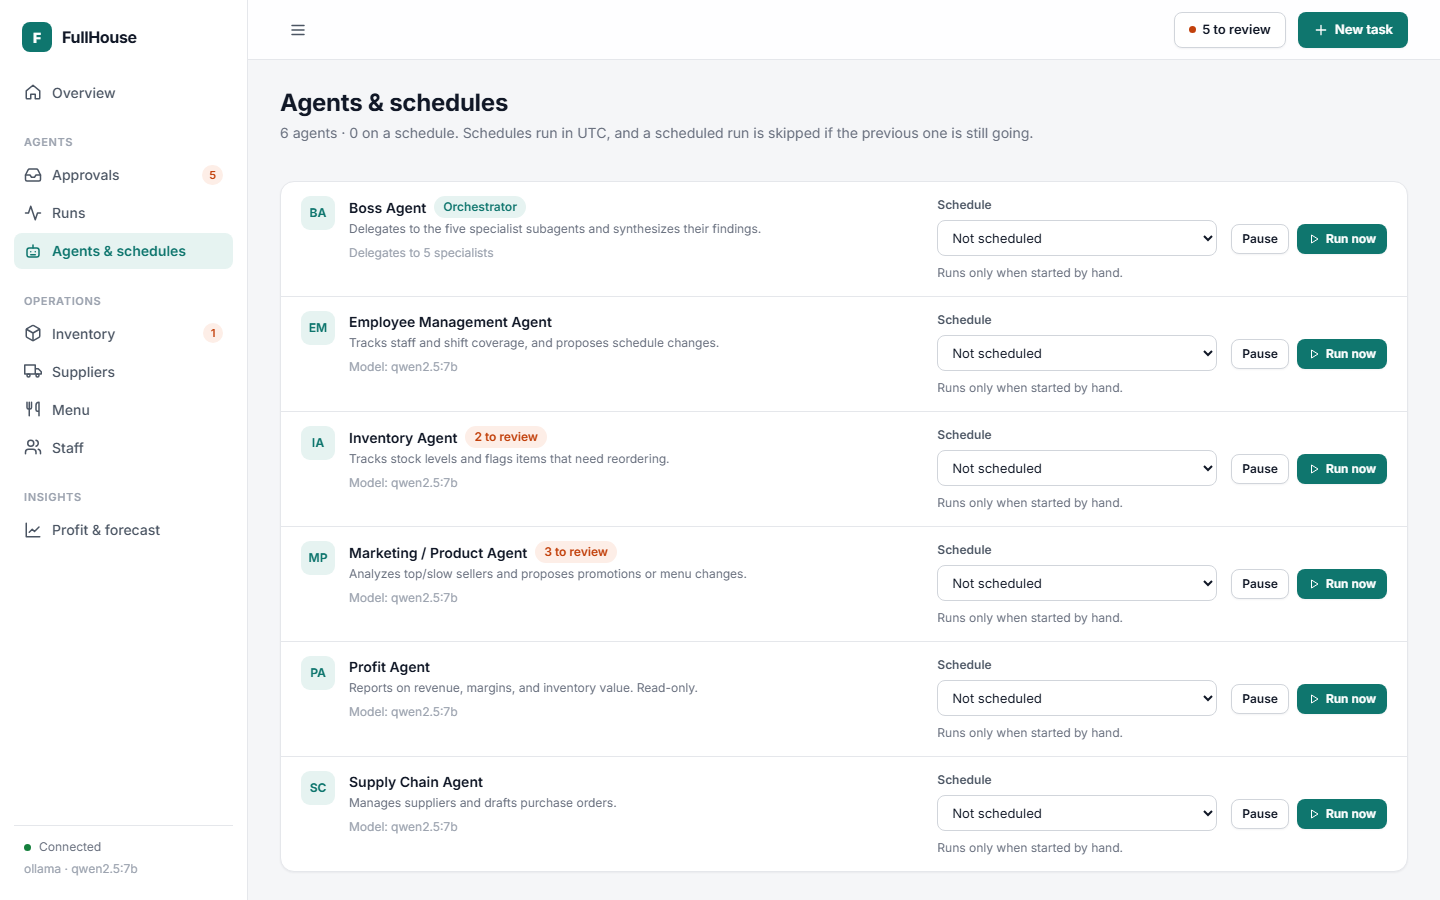
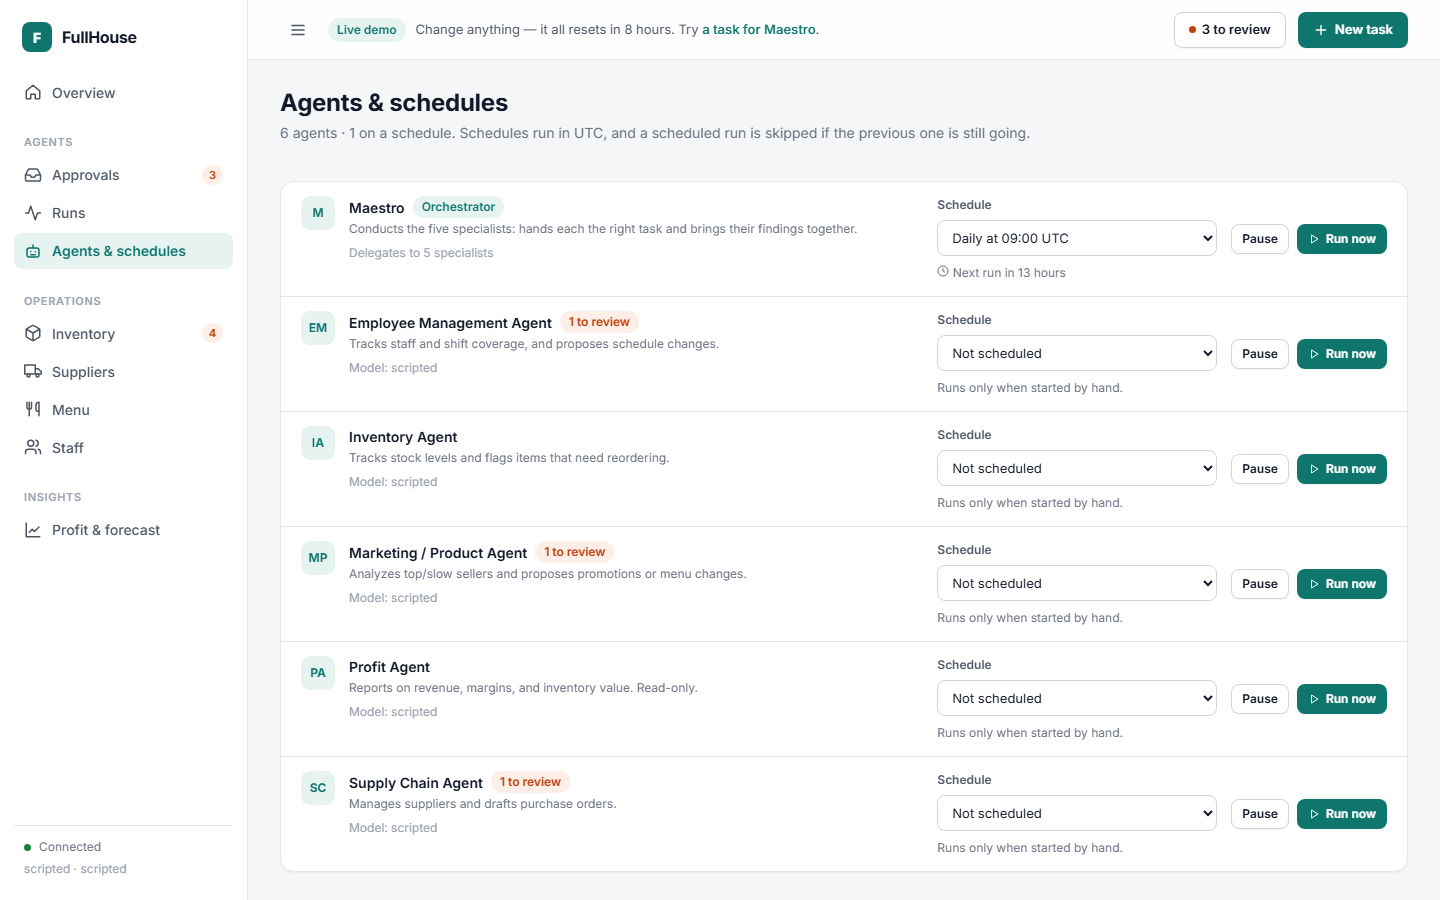
Refresh the README around the demo: GIF, screenshots, one-command setup
The GIF and screenshots are recorded from the demo by
frontend/scripts/capture-media.mjs, so they can be regenerated. DEPLOY.md
covers hosting the public demo on Render for free.

diff --git a/README.md b/README.md
@@ -2,17 +2,35 @@
 
 **An operations platform for a restaurant, run by a team of AI agents that propose — and a manager who decides.**
 
-Maestro, the lead agent, delegates to five specialists (inventory, suppliers, staff, menu, profit). Each can read the restaurant's
-real data and propose changes: reorder stock, schedule a shift, run a promotion. Nothing takes effect until a person
-approves it, every change is recorded with who made it and why, and anything can be reverted.
-
 [![CI](https://github.com/eddierzhang/FullHouse-Updated/actions/workflows/ci.yml/badge.svg)](https://github.com/eddierzhang/FullHouse-Updated/actions/workflows/ci.yml)
+![Python 3.11](https://img.shields.io/badge/python-3.11-3776AB)
+![React 19](https://img.shields.io/badge/react-19-149ECA)
+[![License: MIT](https://img.shields.io/badge/license-MIT-0f766e)](LICENSE)
 
-![Overview](docs/screenshots/overview.png)
+Maestro, the lead agent, hands work to five specialists — inventory, suppliers, staff, menu and profit — and they run
+in parallel. Each reads the restaurant's real data and proposes changes: reorder stock, fill a shift, run a promotion.
+Nothing takes effect until a person approves it, every change is recorded with who made it and why, and anything can
+be undone.
 
-| Watching an agent delegate, live | Menu costed from recipes |
-|---|---|
-| ![Runs](docs/screenshots/runs.png) | ![Menu](docs/screenshots/menu.png) |
+![Asking Maestro a question, watching it delegate live, and approving what it found](docs/demo.gif)
+
+## Try it
+
+No API key, GPU or model download needed — the demo runs its agents on a deterministic scripted provider, loads a
+small Italian bistro with six weeks of trading, and resets itself daily.
+
+```bash
+docker compose -f docker-compose.demo.yml up --build     # then open http://localhost:8080
+```
+
+Without Docker: `python dev.py setup` once, then `python dev.py demo`.
+To host it publicly for free, see [Deploying the public demo](DEPLOY.md#public-demo-free).
+
+| Overview | Maestro's run, live | Menu costed from recipes |
+|---|---|---|
+| ![Overview](docs/screenshots/overview.png) | ![Runs](docs/screenshots/runs.png) | ![Menu](docs/screenshots/menu.png) |
+| **Approvals** | **Profit and forecast** | **Inventory and days of cover** |
+| ![Approvals](docs/screenshots/approvals.png) | ![Profit](docs/screenshots/profit.png) | ![Inventory](docs/screenshots/inventory.png) |
 
 ---
 
@@ -107,7 +125,10 @@ history, and reports its confidence. "Days of cover" is blank, not zero, where n
 
 **Timezones were a real bug.** The profit chart's daily series once summed to less than the headline revenue: days were
 bucketed by local date while timestamps were stored in UTC. Everything is UTC now, and Postgres sessions are pinned to
-`GMT` — which, unlike `UTC`, every Postgres build has without a timezone database.
+`GMT` — which, unlike `UTC`, every Postgres build has without a timezone database. A second one surfaced while recording
+the demo: SQLite returns timestamps without an offset, so the API sent them without one and a browser west of UTC showed
+a run from a minute ago as "in 7 hours". A column type now attaches UTC on the way out of either database.
+([types.py](backend/app/db/types.py))
 
 ## Agent evaluation
 
@@ -136,52 +157,42 @@ Full report: [evals/results/latest.md](backend/evals/results/latest.md).
 **Frontend** — React 19, TypeScript, Vite, hand-built SVG charts, no UI framework
 **Data** — SQLite locally, Postgres supported and tested
 **Models** — Anthropic Claude, or local models through Ollama
-**Quality** — pytest (200 tests on SQLite and Postgres), Playwright end-to-end tests, agent evals, GitHub Actions
-**Delivery** — Docker Compose with nginx
+**Quality** — pytest (210 tests on SQLite and Postgres), Playwright end-to-end tests, agent evals, GitHub Actions
+**Delivery** — a single-container demo image, and Docker Compose with nginx and Ollama
 
 ## Running it
 
-### With Docker
+Every task is one command through [`dev.py`](dev.py), which works the same on Windows, macOS and Linux:
 
-```bash
-cp .env.docker.example .env
-docker compose up -d --build
-```
+| Command | What it does |
+|---|---|
+| `python dev.py setup` | Creates the virtualenv, installs both halves, migrates and seeds a database |
+| `python dev.py dev` | API on :8000 and frontend on :5173, together |
+| `python dev.py demo` | The public demo on :8080 |
+| `python dev.py test` | Backend tests, then a frontend type-check and build |
+| `python dev.py e2e` | Playwright end-to-end tests against an isolated stack |
+| `python dev.py eval --targets ollama:qwen3.5:4b scripted` | Agent evaluation |
 
-Open http://localhost:8080. The first start downloads the model. See [DEPLOY.md](DEPLOY.md) for free cloud hosting.
-
-### For development
-
-```bash
-# backend
-cd backend
-python -m venv .venv && .venv/Scripts/activate     # source .venv/bin/activate on macOS/Linux
-pip install -r requirements-dev.txt
-cp .env.example .env                               # set LLM_PROVIDER and a model
-alembic upgrade head && python scripts/seed_data.py
-uvicorn app.main:app --port 8000
-
-# frontend, in another terminal
-cd frontend
-npm install
-npm run dev                                        # http://localhost:5173
-```
-
-`LLM_PROVIDER` is `ollama` (needs [Ollama](https://ollama.com) and a tool-capable model), `anthropic` (needs
-`ANTHROPIC_API_KEY`), or `scripted` — a deterministic, model-free provider for trying the app without either.
+`LLM_PROVIDER` in `backend/.env` picks what runs the agents: `ollama` (needs [Ollama](https://ollama.com) and a
+tool-capable model), `anthropic` (needs `ANTHROPIC_API_KEY`), or `scripted`, which `setup` chooses so the app works
+straight away.
 
 For Ollama, start the server with `OLLAMA_NUM_PARALLEL=4` so Maestro's parallel delegations aren't queued one at a
 time, and don't share that server with other heavy workloads — a competing request for the same model with different
 settings makes Ollama reload it.
 
-### Tests
+### With Docker and a local model
 
 ```bash
-cd backend && python -m pytest                                  # unit and integration tests, SQLite
-TEST_DATABASE_URL=postgresql://... python -m pytest             # the same suite against Postgres
-python -m evals.run --targets ollama:qwen3.5:4b scripted        # agent evaluation
-cd frontend && npx playwright test                              # end-to-end, starts its own isolated stack
+cp .env.docker.example .env
+docker compose up -d --build        # nginx, the API and Ollama; the first start downloads the model
 ```
+
+Open http://localhost:8080. [DEPLOY.md](DEPLOY.md) covers hosting it on a free VM.
+
+### Postgres
+
+The suite runs against Postgres in CI. Locally: `TEST_DATABASE_URL=postgresql://... python -m pytest` from `backend/`.
 
 ## Project layout
 
@@ -190,13 +201,18 @@ backend/
   app/agents/       runner, executor, broker, scheduler, appliers, providers, tools
   app/audit/        change-log listener, actor context, revert
   app/restaurant/   domain models, aggregates (profit, forecast, supply chain), routes
+  app/demo.py       the demo restaurant and its reset
   evals/            scenarios, harness, results
   tests/
 frontend/
   src/pages/        one component per page
   src/components/   shared UI: approvals list, charts, drawer, recipe editor
   e2e/              Playwright tests
-docker-compose.yml, DEPLOY.md
+  scripts/          records the demo GIF and screenshots
+docs/               development log, original plan, screenshots
+Dockerfile          single-container image (demo, free hosts)
+docker-compose.yml  nginx + API + Ollama
+dev.py              developer tasks
 ```
 
 ## Limitations
@@ -207,3 +223,7 @@ docker-compose.yml, DEPLOY.md
   moving them to something like Redis.
 - **Gross, not net.** Profit excludes labour and overheads.
 - **No purchase-order lifecycle.** Approving a reorder books the goods as received immediately.
+
+## License
+
+[MIT](LICENSE). How it was built, phase by phase: [docs/devlog.md](docs/devlog.md).

diff --git a/DEPLOY.md b/DEPLOY.md
@@ -1,6 +1,39 @@
 # Running and deploying FullHouse
 
-## Local, with Docker
+## Public demo (free)
+
+The single-container image in the repo root is built for this: the frontend and API in one process, agents on the
+scripted provider (no model, no API key), and a demo restaurant reloaded at every start and daily at 04:00 UTC. It
+used about 100 MB of memory when measured locally, so a 512 MB free tier is plenty.
+
+### Render
+
+1. Sign in at [render.com](https://render.com) with GitHub and give it access to this repository.
+2. **New → Blueprint**, pick the repository. Render reads [`render.yaml`](render.yaml) and proposes one free web
+   service, `fullhouse-demo`. Apply.
+3. The first build takes a few minutes. The site is then at `https://fullhouse-demo.onrender.com` (or a suffixed
+   variant if the name is taken). Put that link at the top of the README.
+
+Pushes to `main` redeploy automatically. The free plan sleeps after 15 idle minutes and takes about a minute to
+wake; each wake starts from a fresh demo, which is what a public demo wants anyway.
+
+### Anywhere else that runs a container
+
+```bash
+docker build -t fullhouse .
+docker run -p 8080:8000 fullhouse                  # the host may assign the port via $PORT instead
+```
+
+Fly.io, Koyeb and Google Cloud Run all run this image unchanged. Set `DEMO_MODE=false` and a different
+`LLM_PROVIDER` to run it as a real instance instead of a demo.
+
+**On an open demo, anyone can change anything** — that's the point, and the scheduled reset is what makes it safe.
+Don't point a demo at data you care about.
+
+---
+
+
+## Local, with Docker and a local model
 
 Needs [Docker Desktop](https://www.docker.com/products/docker-desktop/).
 
@@ -71,7 +104,6 @@ One free ARM VM runs the entire compose stack, model included.
    ```bash
    git clone https://<token>@github.com/eddierzhang/FullHouse-Updated.git
    cd FullHouse-Updated
-   git checkout change-tracking-and-agent-pages   # until it is merged to main
    ```
 5. **Configure and start.**
    ```bash
@@ -105,5 +137,5 @@ Useful for showing the UI, but agent runs won't work for free:
 - **No model:** there is no free host for Ollama at this size. Agents would need
   `LLM_PROVIDER=anthropic` and a paid API key.
 - **Database:** Render's free disk is wiped on every deploy, so SQLite won't persist, and
-  Render's free Postgres is deleted after 30 days. Neon's free tier (0.5 GB) is permanent,
-  but moving to Postgres hasn't been done or tested yet.
+  Render's free Postgres is deleted after 30 days. Neon's free tier (0.5 GB) is permanent, and
+  Postgres is supported: point `DATABASE_URL` at it (CI runs the whole suite on Postgres 16).
